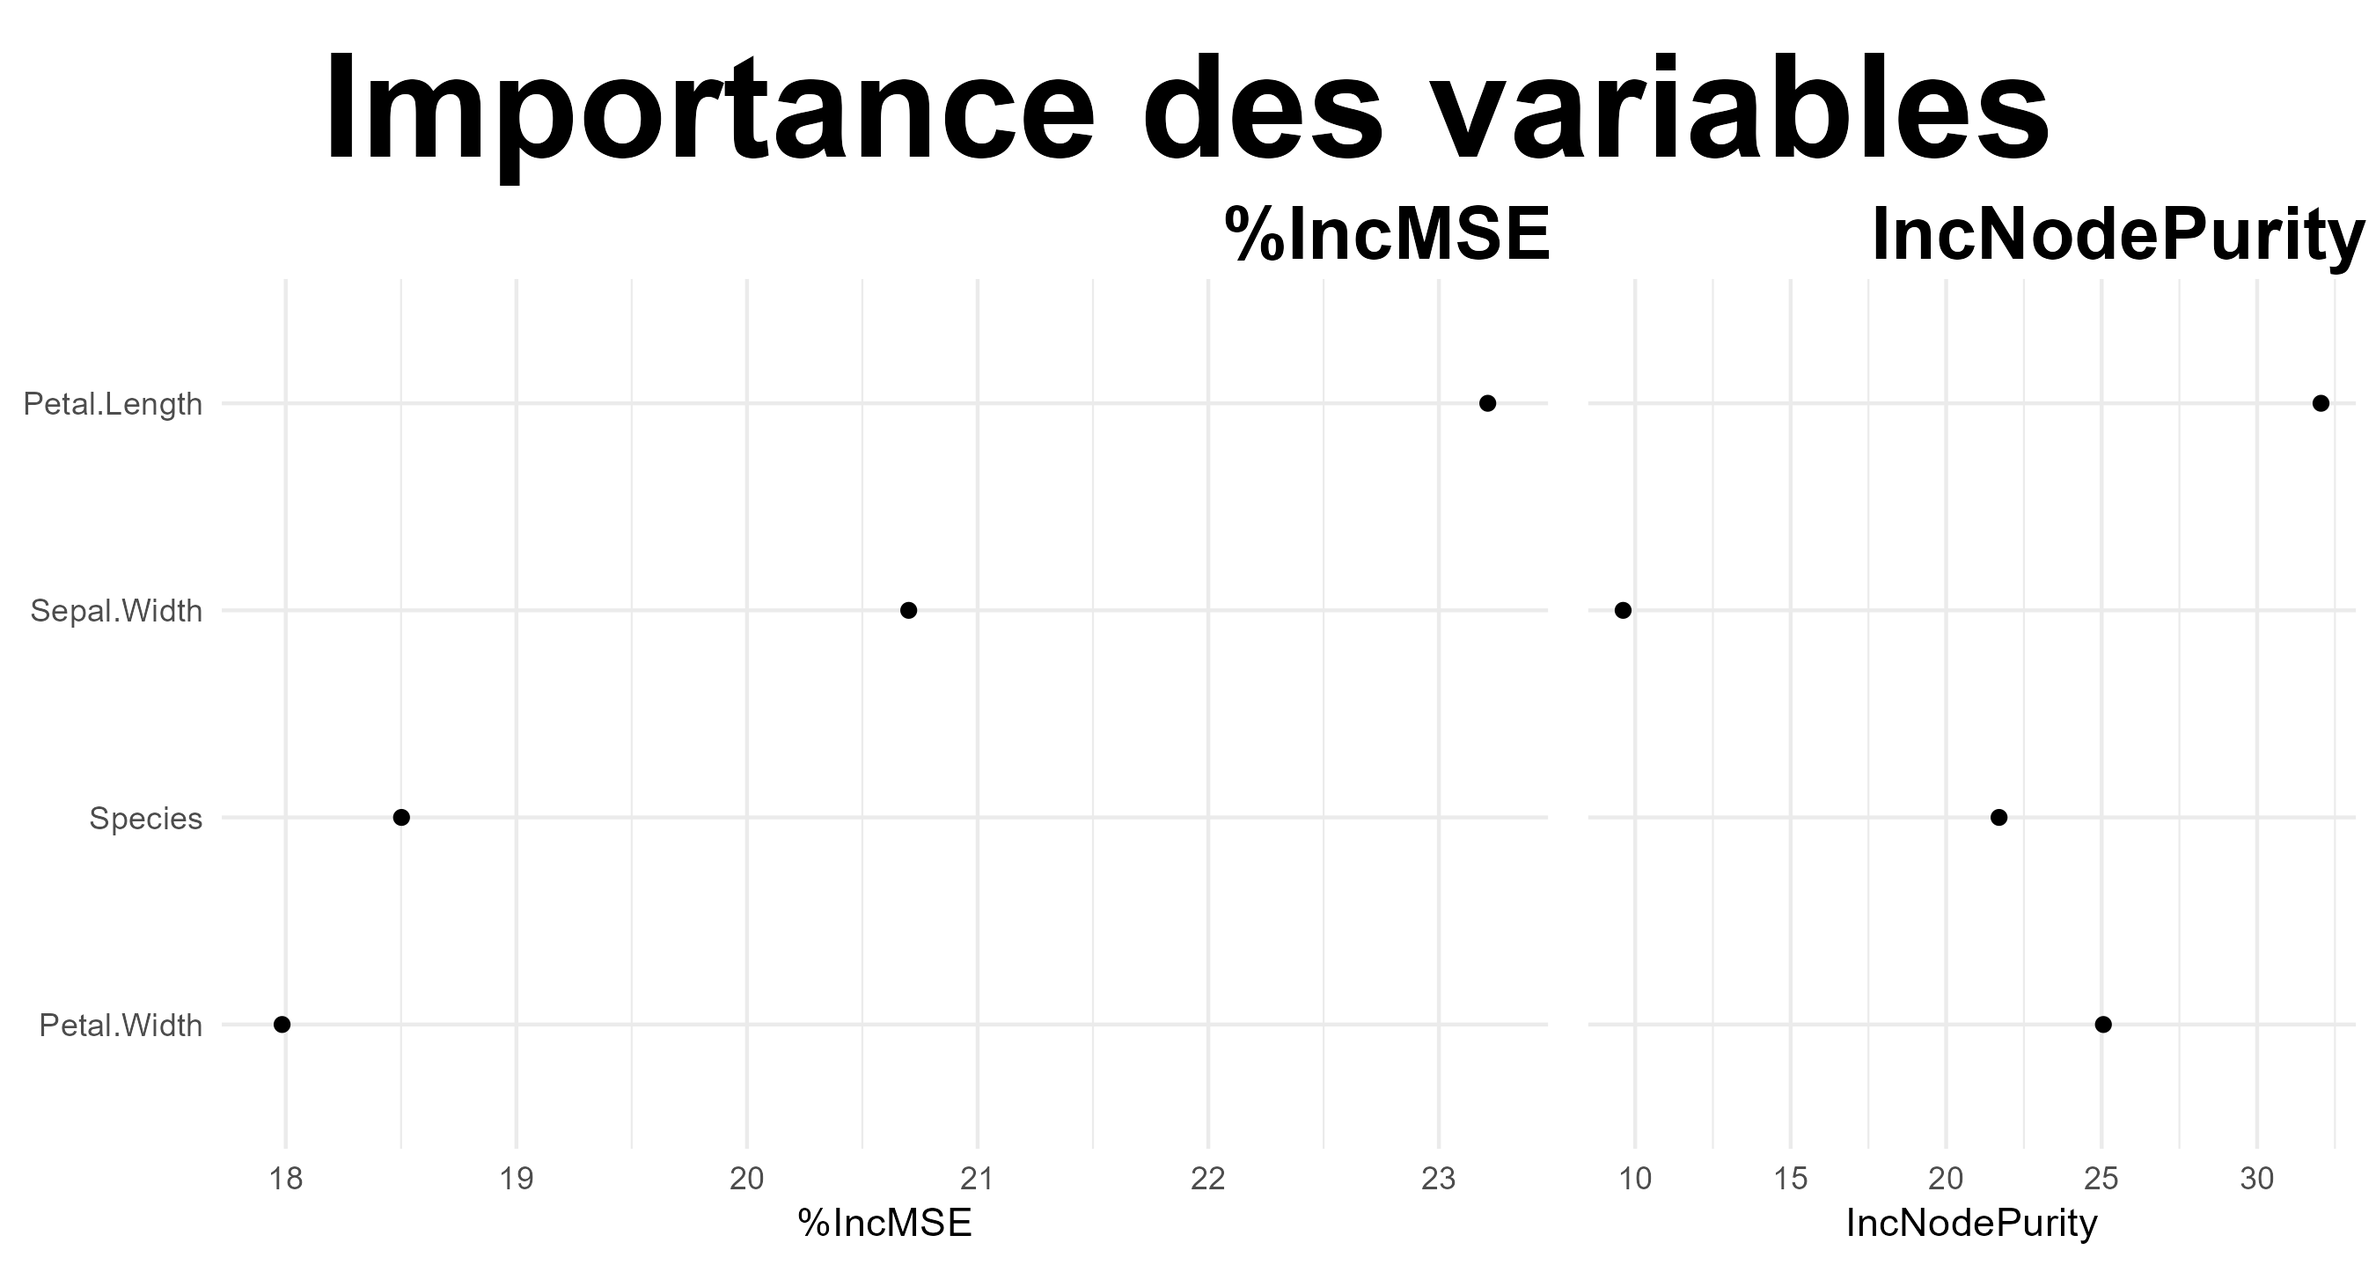
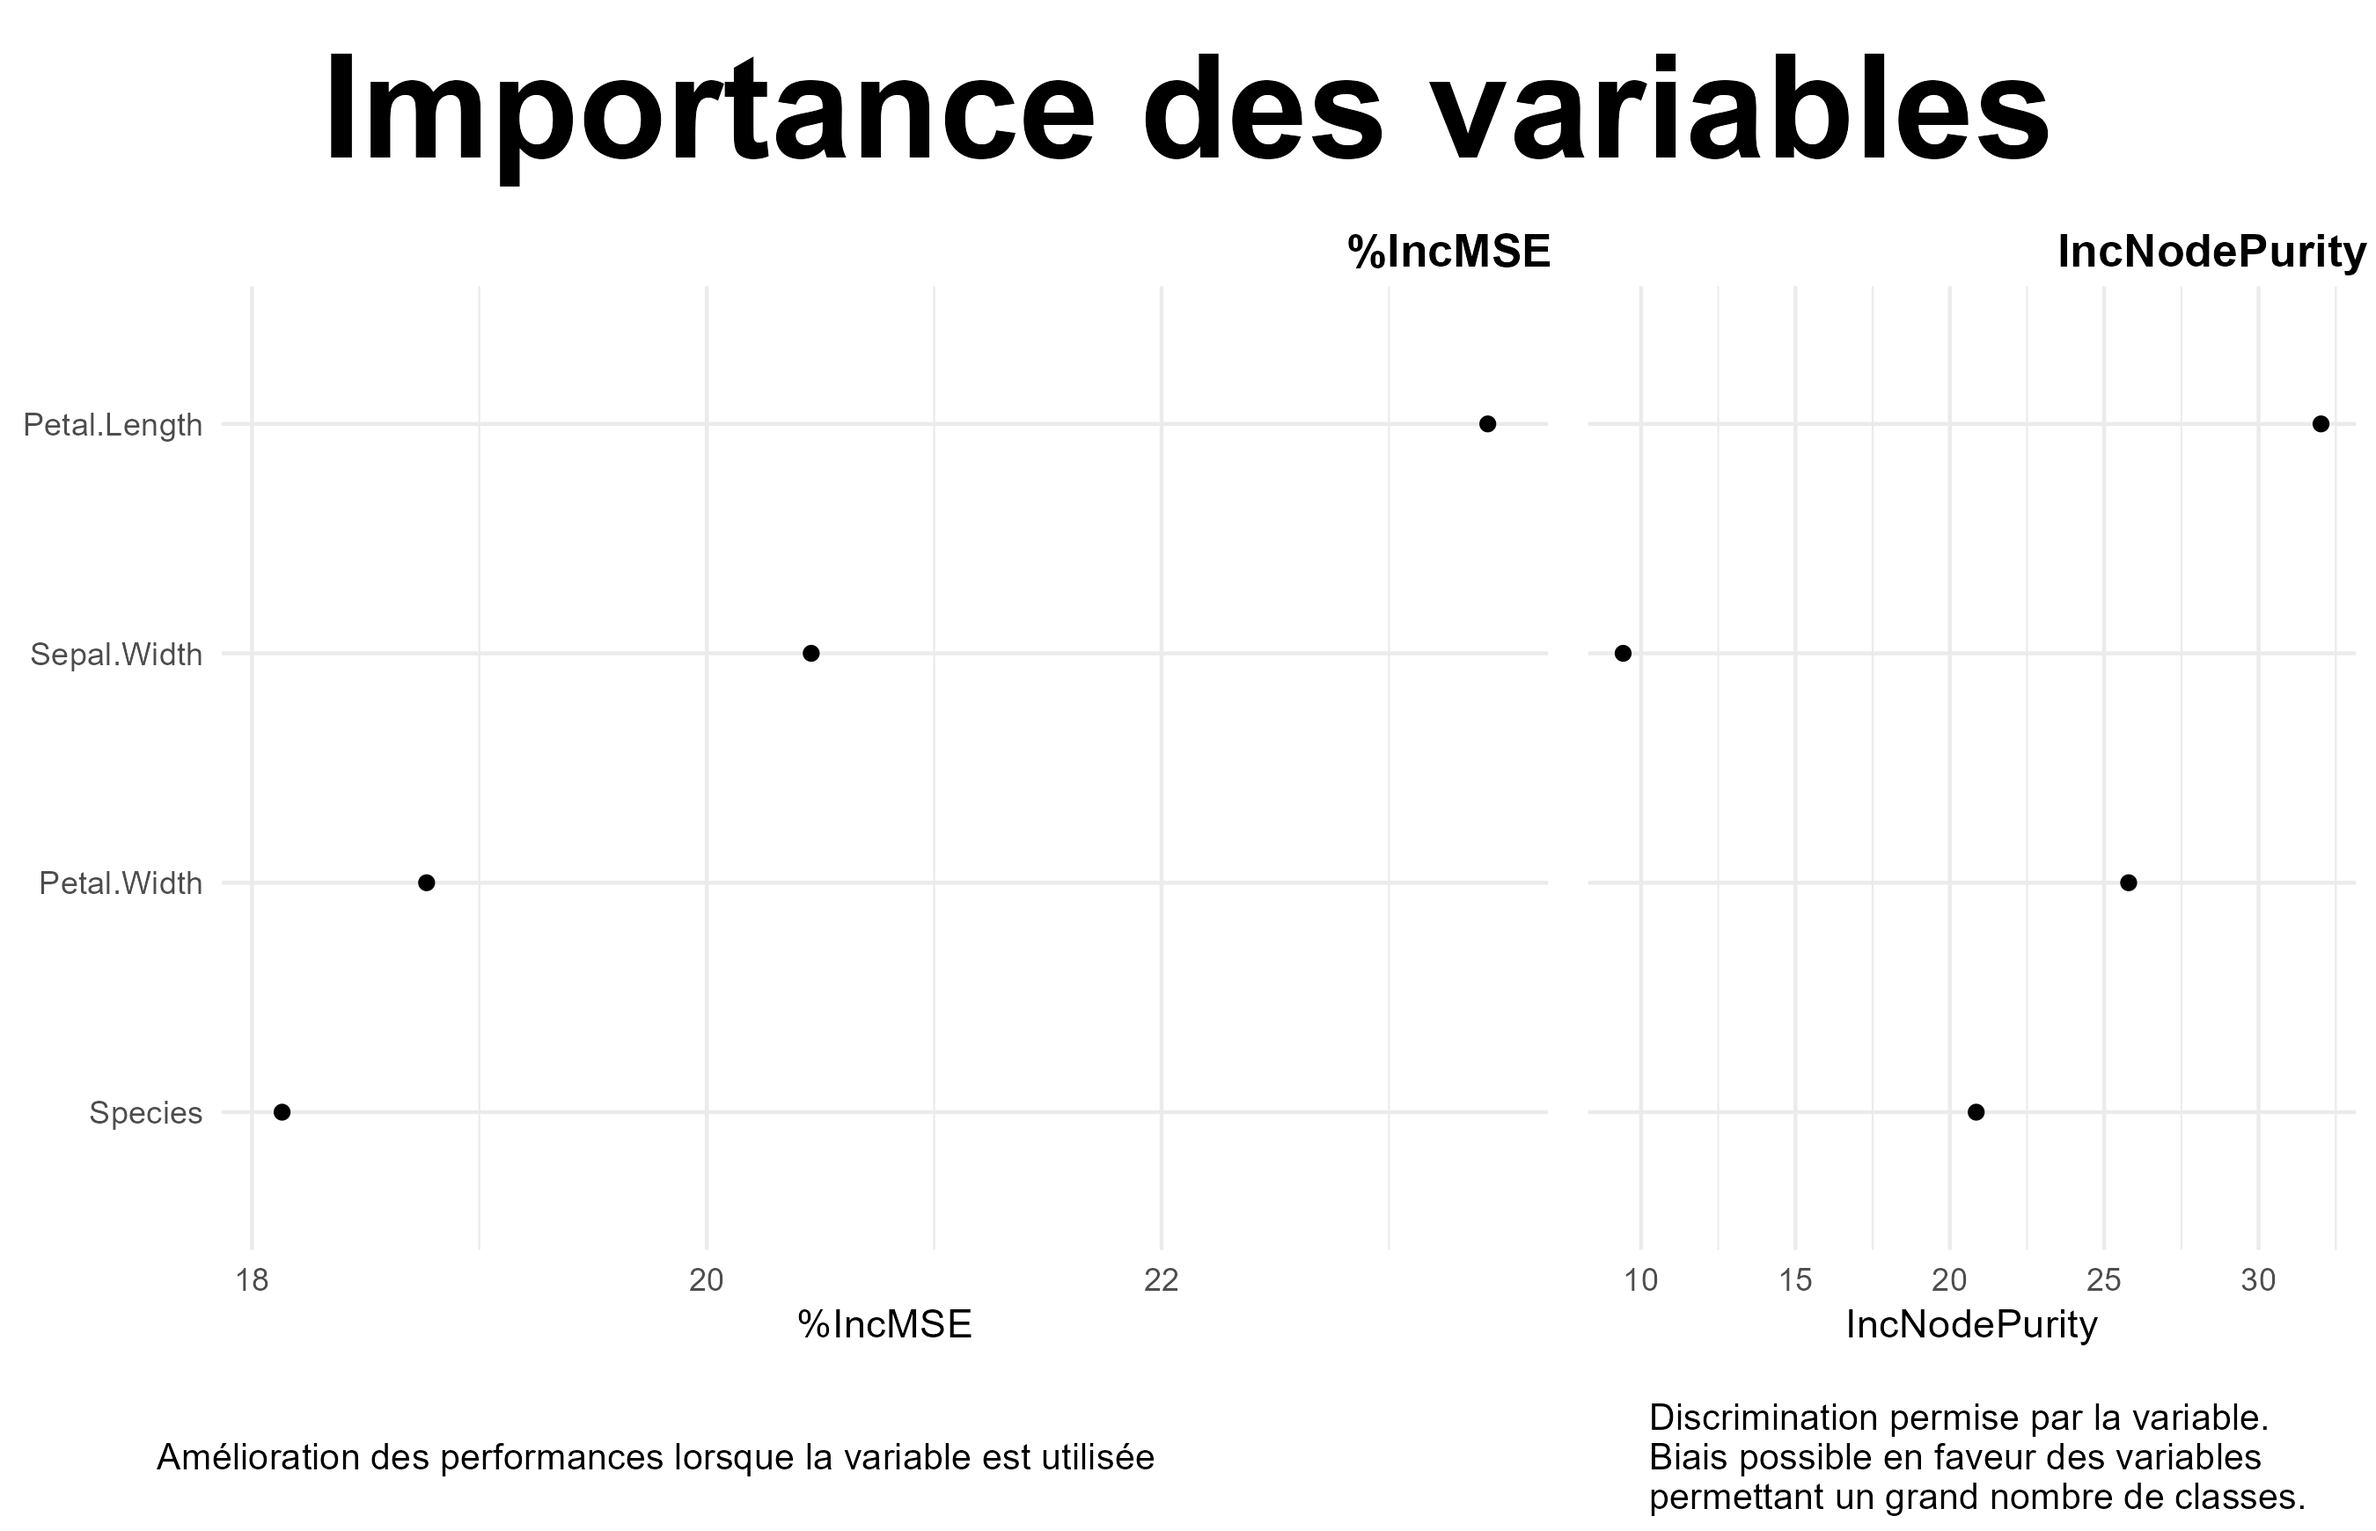
leaf_colored_markers : ajout prise en charge de couleurs texte README : réarangement des fonctions

diff --git a/README.md b/README.md
@@ -74,7 +74,7 @@ library(pack.figures)
 
 ## Fonctions
 
-### Graphiques préconfigurés
+### Graphiques préconfigurés pour la modélisation
 
 | Fonction | Description |
 |----|----|
@@ -82,16 +82,16 @@ library(pack.figures)
 | `graph_perf_ROC()` | Graphique observé / simulé en quadrants selon des seuils, avec sensibilité, spécificité, taux de bien prédits et indice de Youden |
 | `boxplot2()` | Boxplot par catégorie avec test de Tukey (groupes de significativité), classé par médiane |
 | `rf_fig()` | Figure d’analyse d’une forêt aléatoire : %IncMSE et IncNodePurity |
-| `geom_break()` | Couche ggplot2 (`+ geom_break()`) ajoutant une cassure (deux slashes) sur une courbe pour indiquer une rupture de continuité |
 
-### Thèmes
+### Apparence et thèmes
 
 | Fonction | Description |
 |----|----|
 | `theme_basique()` | Thème pour les graphiques, basé sur `theme_minimal()` : légende en bas, sous-titre et source en gris. Appliqué par défaut au chargement du package |
 | `theme_carto()` | Thème pour les cartes, basé sur `theme_void()` |
+| `mega_Palette()` | Palette jusqu’à ~50 couleurs à peu près discernables (non adaptée aux daltoniens) |
 
-### Mise en page et export
+### Exportations des figures
 
 | Fonction | Description |
 |----|----|
@@ -99,16 +99,21 @@ library(pack.figures)
 | `sauv_graph()` | Enregistre une figure en png et/ou svg |
 | `add_background_image()` | Ajoute une image en arrière-plan (non déformée) sous le quadrillage d’un ggplot |
 | `save_plot_bg()` | Enregistre un ggplot avec image de fond (png) |
-| `dim_aire()` | Dimensions d’export optimales pour un ratio et une aire donnés |
-| `quelles_marges()` | Marges fixes (X, Y) d’un ggplot |
 
-### Couleurs
+### Autre fonction concernant les figures
 
 | Fonction | Description |
 |----|----|
-| `mega_Palette()` | Palette jusqu’à ~50 couleurs à peu près discernables (non adaptée aux daltoniens) |
+| `geom_break()` | Couche ggplot2 (`+ geom_break()`) ajoutant une cassure (deux slashes) sur une courbe pour indiquer une rupture de continuité |
 
-### Cartographie
+### Exportaion en contexte SIG
+
+| Fonction | Description |
+|----|----|
+| `dim_aire()` | Dimensions d’export optimales pour un ratio et une aire donnés |
+| `quelles_marges()` | Marges fixes (X, Y) d’un ggplot |
+
+### autres fonctin pour les SIG
 
 | Fonction | Description |
 |----|----|
@@ -123,7 +128,10 @@ La documentation détaillée de chaque fonction est accessible via
 
 ``` r
 library(pack.figures)
+#> Le chargement a nécessité le package : ggplot2
 #> Warning: le package 'ggplot2' a été compilé avec la version R 4.4.3
+#> les directions 'PROJ_LIB' et 'PROJ_DATA' ont été réinitialisées
+#> le paramètres ggplot ont été modifié pour theme_basique() et couleurs viridis
 ```
 
 ### Thèmes
@@ -170,6 +178,20 @@ boxplot2(iris, x = "Species", y = "Sepal.Length")
 ```
 
 <img src="man/figures/README-boxplot2-1.png" alt="" width="100%" />
+
+### Figure d’analyse d’une forêt aléatoire
+
+``` r
+rf <- randomForest::randomForest(Sepal.Length ~ ., data = iris, importance = TRUE)
+
+rf_fig(rf, titre = "Importance des variables",
+       fichier = "man/figures/README-rf-fig.png",
+       .expl_var = TRUE)
+
+knitr::include_graphics("man/figures/README-rf-fig.png")
+```
+
+<img src="man/figures/README-rf-fig.png" alt="" width="100%" />
 
 ### Cassure de courbe
 
@@ -218,7 +240,7 @@ leaflet::leaflet() |>
                       icon = my_markers[names(list_col)])
 ```
 
-    #> file:///C:/Users/Delagarde/AppData/Local/Temp/RtmpmmVHbr/file4c98477d6349.html screenshot completed
+    #> file:///C:/Users/Delagarde/AppData/Local/Temp/RtmpAJI7ZV/file521443f37906.html screenshot completed
 
 <img src="man/figures/README-leaflet-capture-1.png" alt="" width="100%" />
 
@@ -231,7 +253,7 @@ dessinées. La fonction renvoie une liste : la carte, puis la largeur et
 la hauteur suggérées pour l’export.
 
 L’ombrage du relief (`.ombrage = TRUE`) n’est appliqué que si le raster
-correspondant est accessible ; l’exemple ci-dessous s’en passe.
+correspondant est accessible.
 
 ``` r
 communes <- data.frame(code_insee = c("97411", "97415", "97416", "97414"),
@@ -338,19 +360,6 @@ knitr::include_graphics("man/figures/README-fig-grid.png")
 ```
 
 <img src="man/figures/README-fig-grid.png" alt="" width="100%" />
-
-### Figure d’analyse d’une forêt aléatoire
-
-``` r
-rf <- randomForest::randomForest(Sepal.Length ~ ., data = iris, importance = TRUE)
-
-rf_fig(rf, titre = "Importance des variables",
-       fichier = "man/figures/README-rf-fig.png")
-
-knitr::include_graphics("man/figures/README-rf-fig.png")
-```
-
-<img src="man/figures/README-rf-fig.png" alt="" width="100%" />
 
 ## Licence
 
